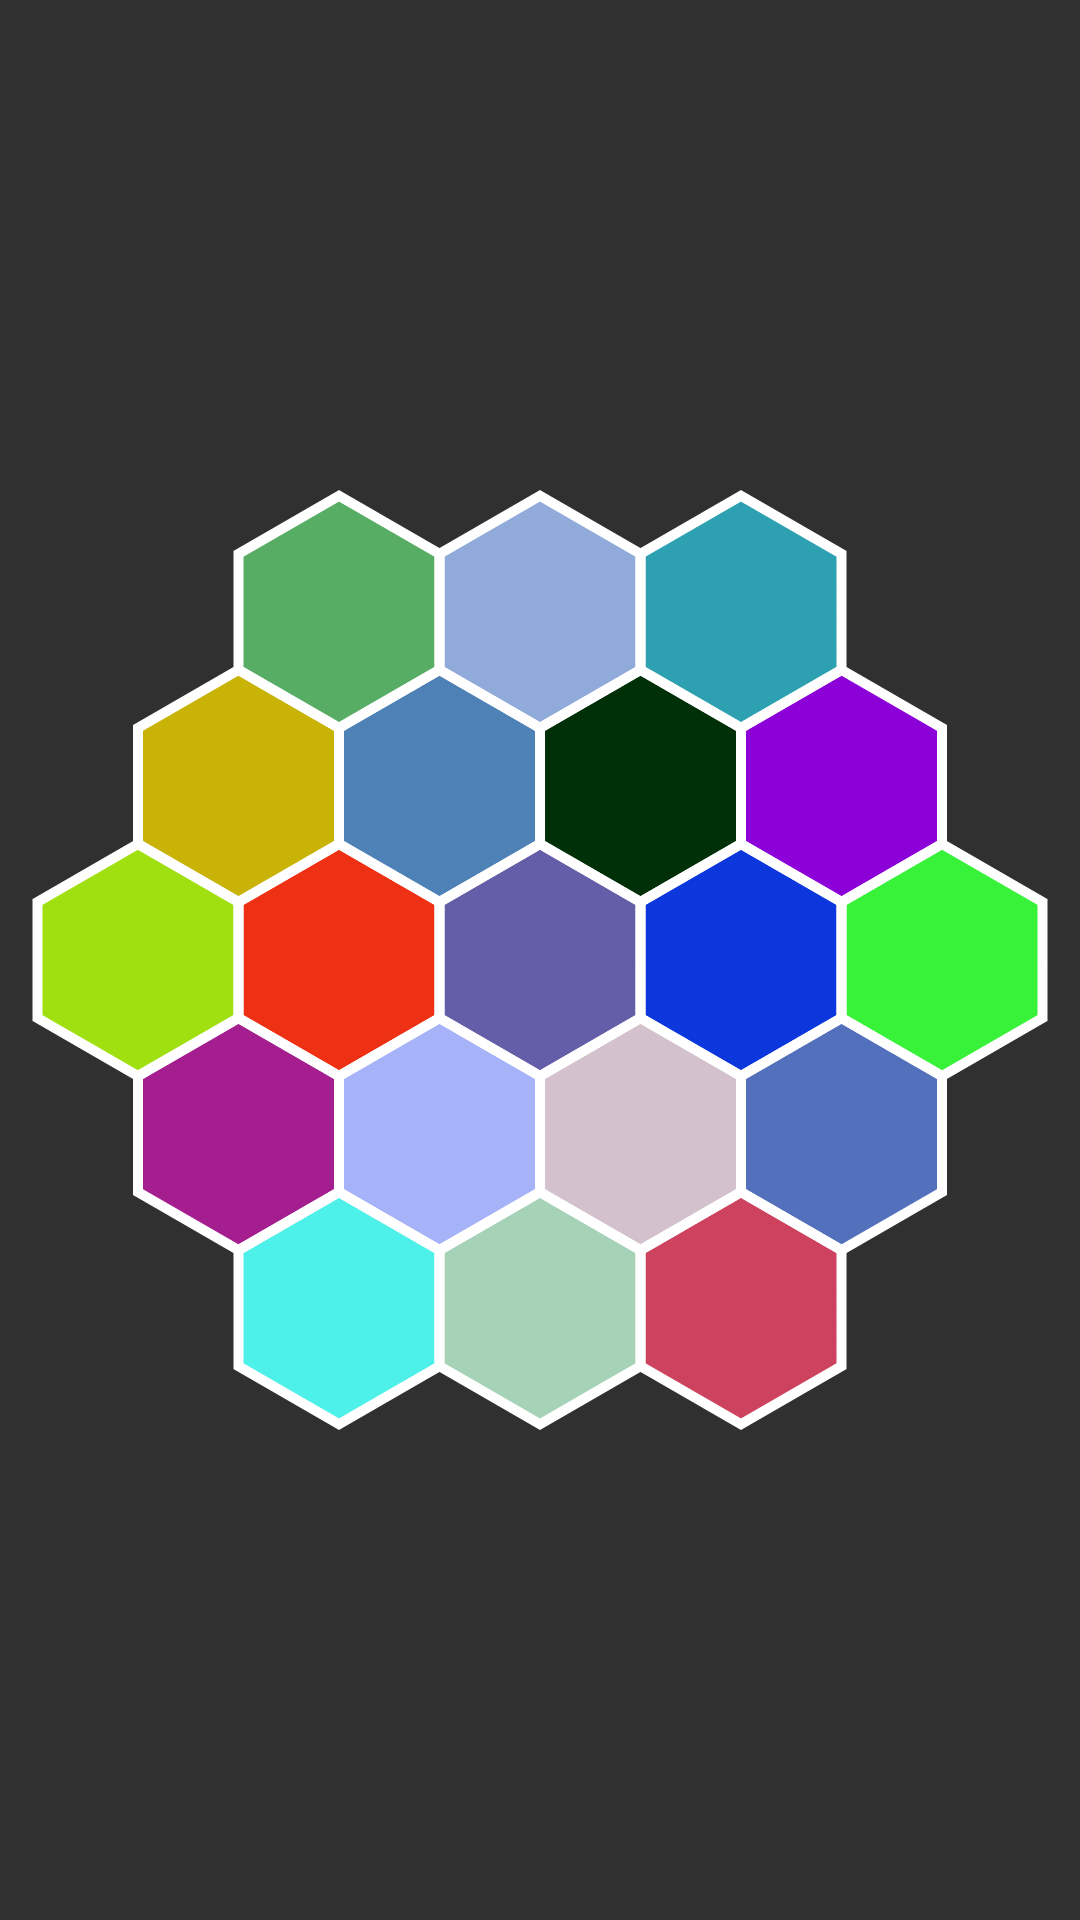
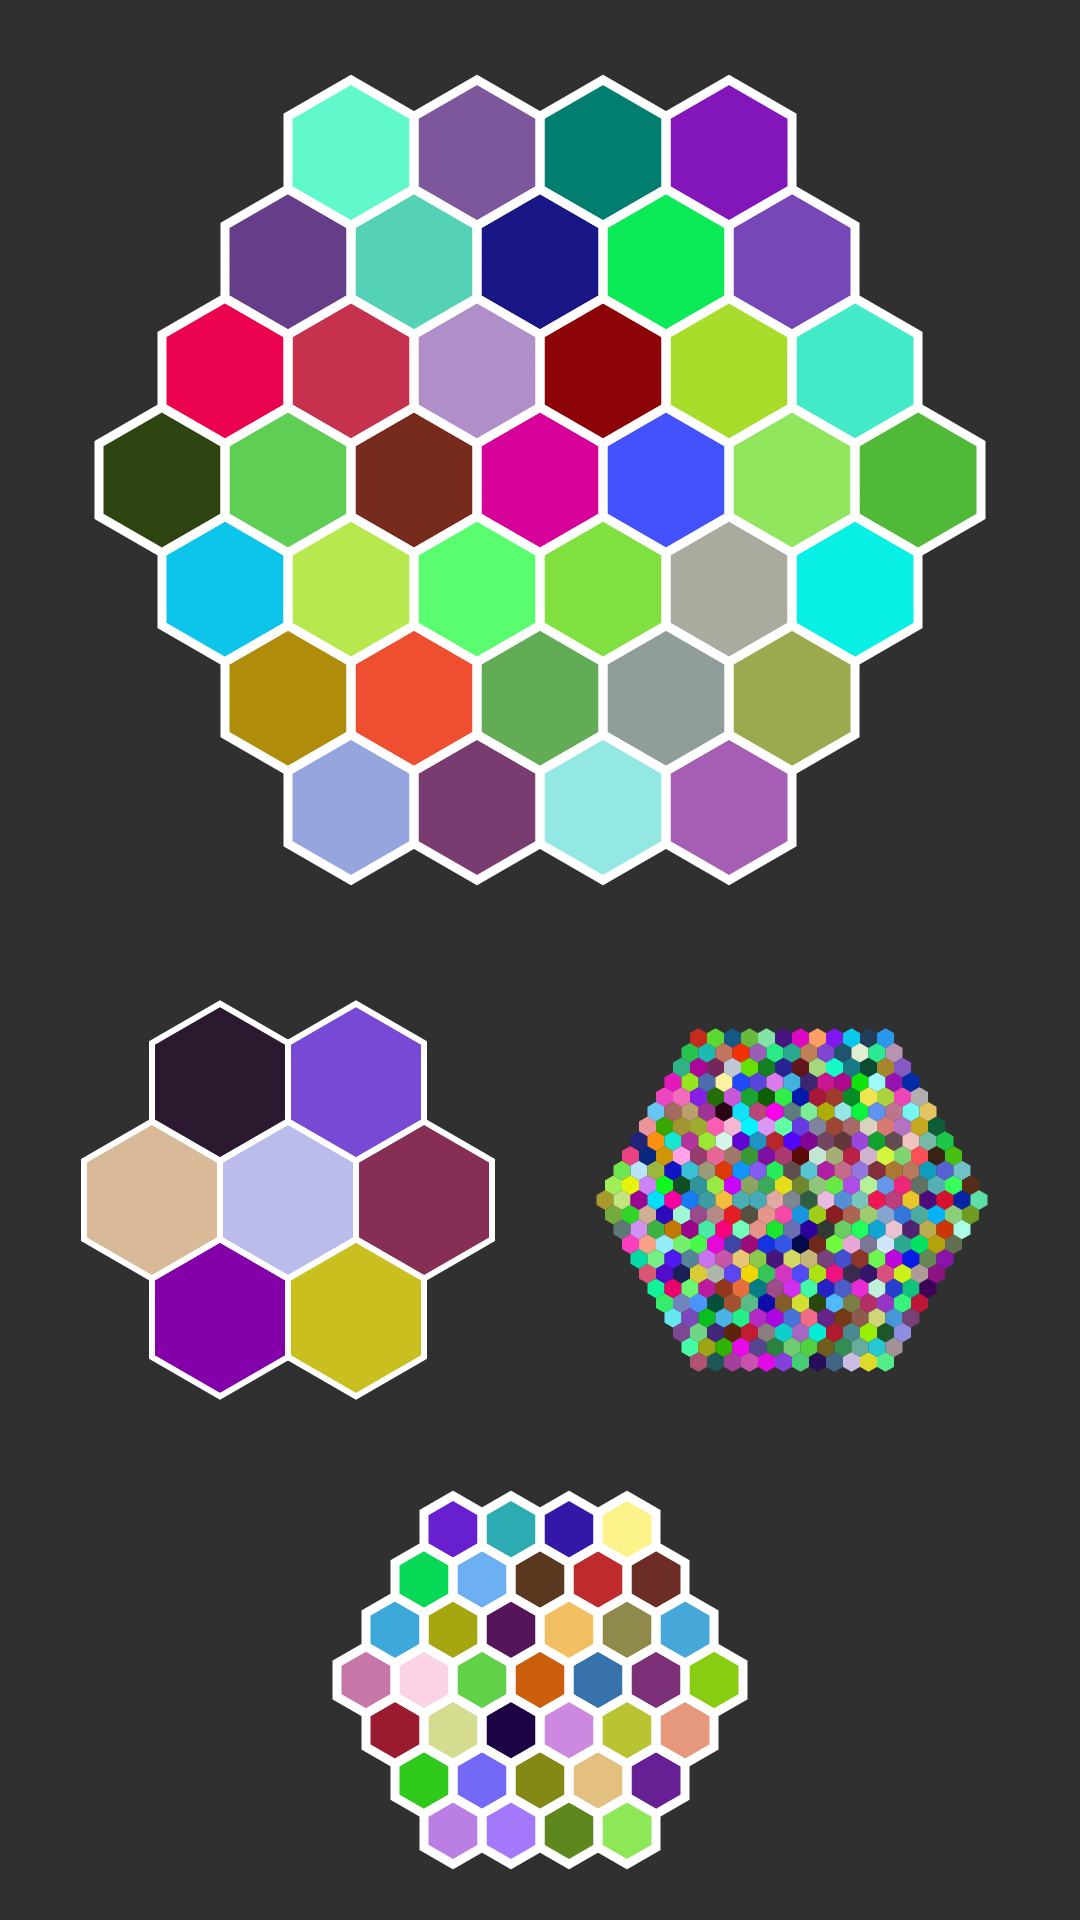
Added more samples

diff --git a/sample/src/main/java/tw0reck1/colorpickerapp/MainActivity.java b/sample/src/main/java/tw0reck1/colorpickerapp/MainActivity.java
@@ -2,6 +2,7 @@ package tw0reck1.colorpickerapp;
 
 import android.support.v7.app.AppCompatActivity;
 import android.os.Bundle;
+import android.view.View;
 
 import tw0reck1.colorpicker.ColorPickerView;
 import tw0reck1.colorpicker.OnColorPickedListener;
@@ -9,20 +10,33 @@ import tw0reck1.colorpicker.OnColorPickedListener;
 /** @author Adrian Tworkowski */
 public class MainActivity extends AppCompatActivity implements OnColorPickedListener {
 
-    private ColorPickerView mColorPickerView;
+    private View mLayout;
 
     @Override
     protected void onCreate(Bundle savedInstanceState) {
         super.onCreate(savedInstanceState);
         setContentView(R.layout.activity_main);
 
-        mColorPickerView = (ColorPickerView) findViewById(R.id.colorview);
-        mColorPickerView.setOnColorPickedListener(this);
+        mLayout = findViewById(R.id.layout);
+
+        ColorPickerView colorPickerView1, colorPickerView2, colorPickerView3, colorPickerView4;
+
+        colorPickerView1 = (ColorPickerView) findViewById(R.id.colorview1);
+        colorPickerView1.setOnColorPickedListener(this);
+
+        colorPickerView2 = (ColorPickerView) findViewById(R.id.colorview2);
+        colorPickerView2.setOnColorPickedListener(this);
+
+        colorPickerView3 = (ColorPickerView) findViewById(R.id.colorview3);
+        colorPickerView3.setOnColorPickedListener(this);
+
+        colorPickerView4 = (ColorPickerView) findViewById(R.id.colorview4);
+        colorPickerView4.setOnColorPickedListener(this);
     }
 
     @Override
     public void onColorPicked(int color) {
-        mColorPickerView.setBackgroundColor(color);
+        mLayout.setBackgroundColor(color);
     }
 
 }
